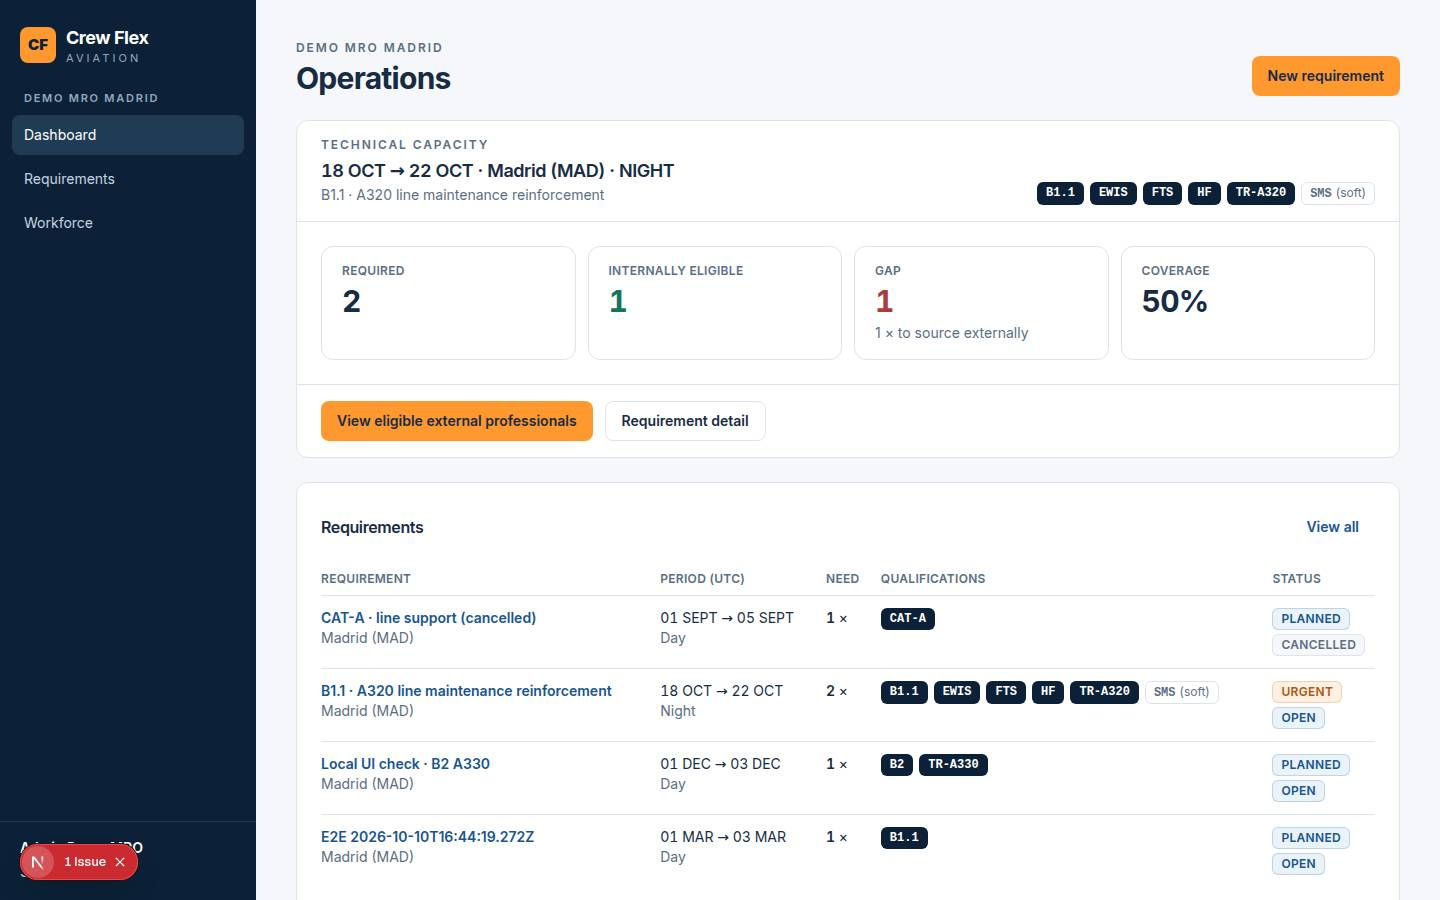
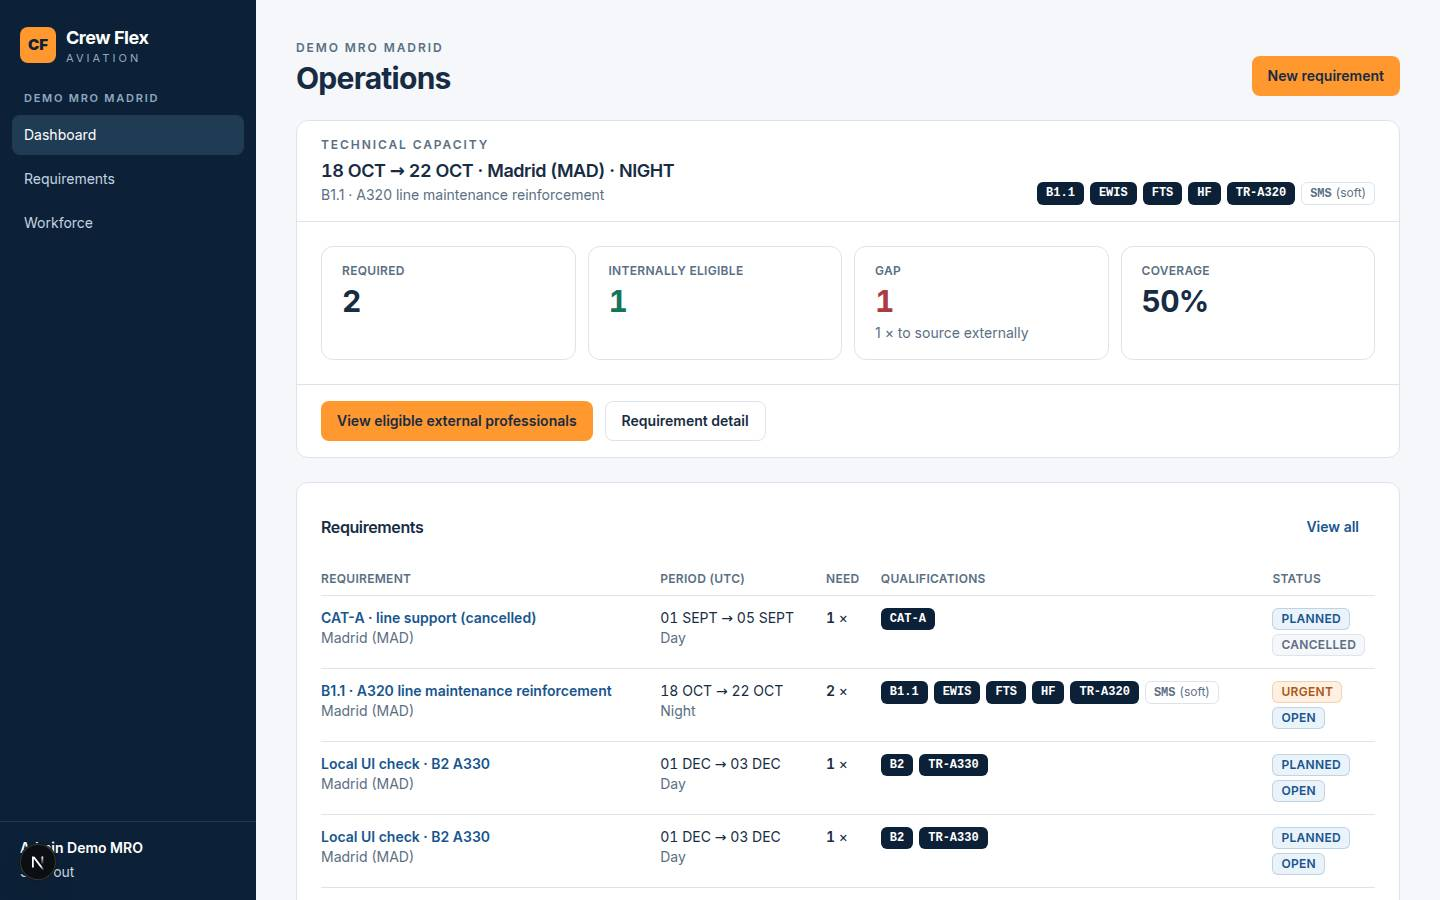
docs(local): re-verify the Docker environment on 2026-10-11, refresh evidence
Existing local database kept (no reset); E2E 13/13, browser smoke 19/20,
full quality gate and build green. Remote project untouched.

diff --git a/docs/qa/LOCAL_ENVIRONMENT.md b/docs/qa/LOCAL_ENVIRONMENT.md
@@ -6,12 +6,12 @@ remote project `sbjkzrkmcekokkqiuvvh`; the remote rules in `docs/architecture/EN
 
 ## 1. Prerequisites (verified on WSL2 Ubuntu 24.04)
 
-| Item         | State                                                                                                                                                                                                                                                                                            |
-| ------------ | ------------------------------------------------------------------------------------------------------------------------------------------------------------------------------------------------------------------------------------------------------------------------------------------------ |
-| Docker       | Docker Desktop for Windows with the WSL integration for this distro (`docker version` works inside WSL, `/var/run/docker.sock` present). Docker Desktop must be running; it was started from WSL with `cmd.exe /c start "" "C:\Program Files\Docker\Docker\Docker Desktop.exe"`.                 |
-| Supabase CLI | `pnpm exec supabase` 2.120.0 (dev dependency)                                                                                                                                                                                                                                                    |
-| Ports        | Crew Flex uses **56321** (API/Kong), **56322** (Postgres), **56323** (Studio), **56324** (Mailpit), **56327** (analytics), **56320/56329** (shadow DB / pooler), inspector 8086. Chosen in `supabase/config.toml` because other local projects on this machine hold 54321–54327 and 55321–55324. |
-| Next.js      | `pnpm dev` → port 3000 if free; on this machine a Windows process holds 3000, so Next picks **3001**. The app only reads `.env.local`.                                                                                                                                                           |
+| Item         | State                                                                                                                                                                                                                                                                                                                                                                                                                   |
+| ------------ | ----------------------------------------------------------------------------------------------------------------------------------------------------------------------------------------------------------------------------------------------------------------------------------------------------------------------------------------------------------------------------------------------------------------------- |
+| Docker       | Docker Desktop for Windows with the WSL integration for this distro (`docker version` works inside WSL, `/var/run/docker.sock` present). Docker Desktop must be running; start it from WSL with `powershell.exe -NoProfile -Command "Start-Process -FilePath 'C:\Program Files\Docker\Docker\Docker Desktop.exe'"` (the `docker` shim appears ~15 s later; the Crew Flex containers auto-start with the volume intact). |
+| Supabase CLI | `pnpm exec supabase` 2.120.0 (dev dependency)                                                                                                                                                                                                                                                                                                                                                                           |
+| Ports        | Crew Flex uses **56321** (API/Kong), **56322** (Postgres), **56323** (Studio), **56324** (Mailpit), **56327** (analytics), **56320/56329** (shadow DB / pooler), inspector 8086. Chosen in `supabase/config.toml` because other local projects on this machine hold 54321–54327 and 55321–55324.                                                                                                                        |
+| Next.js      | `pnpm dev` → port 3000 if free (free on 2026-10-11; on 2026-10-10 a Windows process held it and Next picked **3001**). The app only reads `.env.local`.                                                                                                                                                                                                                                                                 |
 
 ## 2. Bring-up
 
@@ -96,3 +96,21 @@ Row counts after `db reset`: 22 users/profiles, 19 technician profiles, 3 organi
 | Browser flows (headless Chromium, scripted)                                                                                  | 19/20: login/logout, profile, availability create → edit → reload → delete, external professional kept out of the organization area, requirements list scoped to the org, capacity with gap, matching 3 eligible of 10 with explained blockers and pseudonymous refs, requirement creation, other-org admin → 404, plain member without capacity, manager with capacity, browser talked only to localhost. The one failure is the console check: Next dev mode logs `Performance.measure … negative time stamp` from its dev overlay and the expected 404 resource on the cross-org page; no application error |
 | Evidence                                                                                                                     | `docs/audit/evidence/local-01…09-*.jpg`                                                                                                                                                                                                                                                                                                                                                                                                                                                                                                                                                                        |
 | Remote project                                                                                                               | untouched: no `--linked` write, no deploy, no push, no secret or Vercel change                                                                                                                                                                                                                                                                                                                                                                                                                                                                                                                                 |
+
+## 6. Re-verification on 2026-10-11 (local only, existing database kept)
+
+- Docker Desktop was stopped at session start; after starting it the `crew-flex` containers came back
+  with the previous volume, so **no `db reset` was run**: the database already held the seed (22 synthetic
+  users, 74 qualifications, 17 windows, 4 seeded requirements) plus the requirements left by the 2026-10-10
+  checks. Both migrations applied (`20261009120000`, `20261009120100`), Postgres 17.11, 10 tables with RLS,
+  26 policies. `db reset` stays available when a clean slate is wanted (`bash scripts/local/sb-local.sh db reset`).
+- Results: E2E 13/13 (`node --env-file=.env.e2e node_modules/vitest/vitest.mjs run tests/e2e`, same command
+  as `pnpm e2e:remote`; the alias keeps its name because the same suite runs against production under the
+  two-condition guard), browser smoke 19/20 on `http://localhost:3000` (the one failure is the console check
+  picking up the intended 404 on the cross-organization page), `pnpm check` (lint, typecheck, 114 unit/RLS
+  tests, Prettier, deno lint/check, 22 Deno tests), `pnpm build`, `git diff --check`. Screenshots
+  `docs/audit/evidence/local-01…09-*.jpg` refreshed.
+- Each run of the E2E suite leaves one `E2E <timestamp>` requirement and the smoke one
+  `Local UI check · B2 A330` in the synthetic organizations (V0 has no delete path); harmless, cleared by `db reset`.
+- `next build`/`next typegen` terminate a running `pnpm dev` (exit 143): run the gates first, then start dev.
+- Remote project untouched: no `--linked`, no deploy, no push, no secret or Vercel change.
